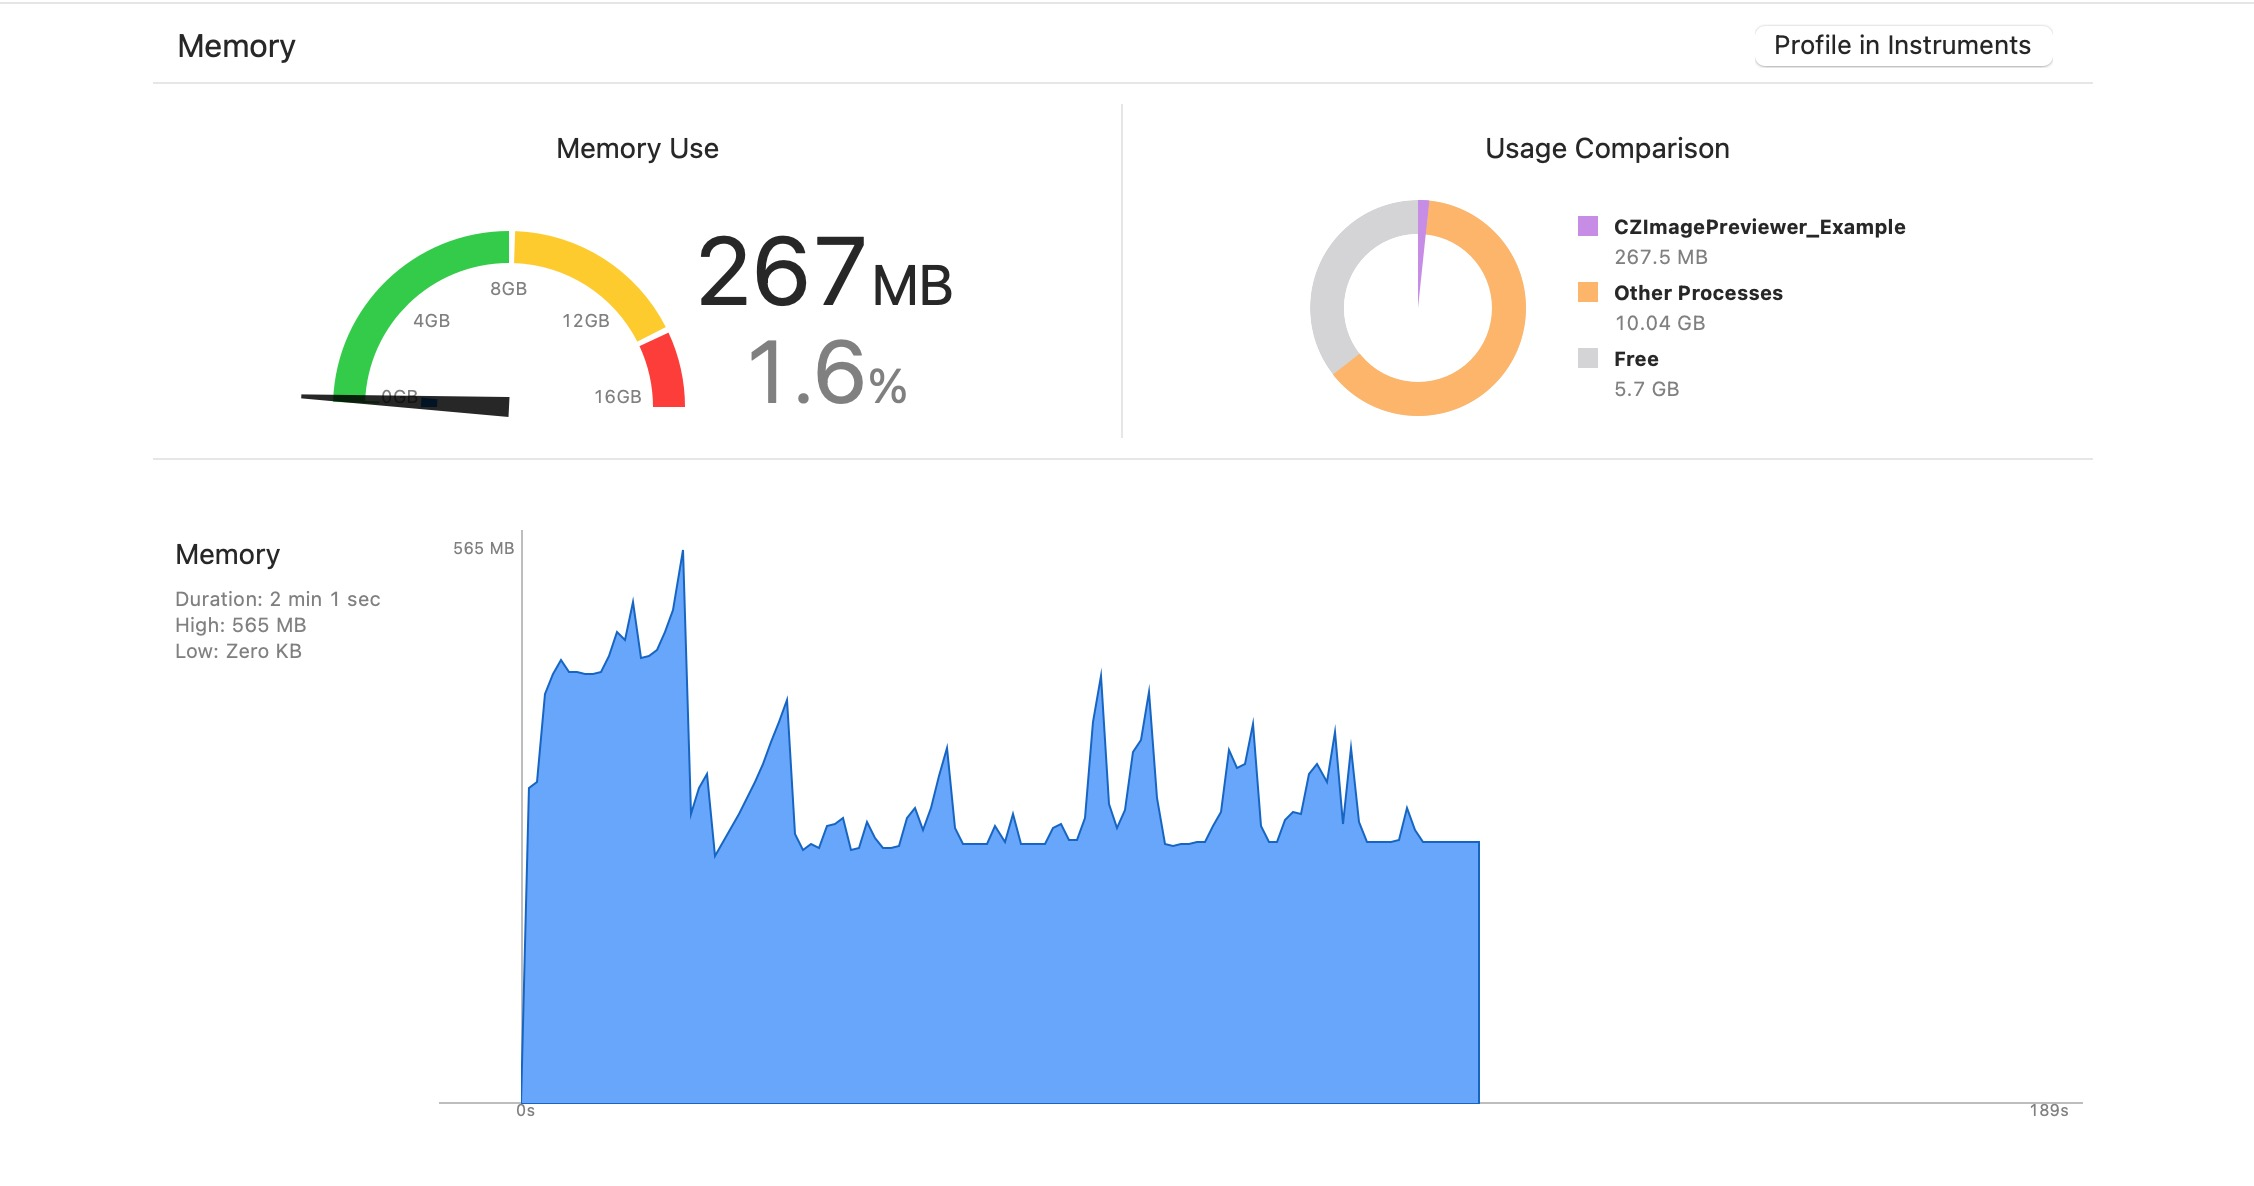
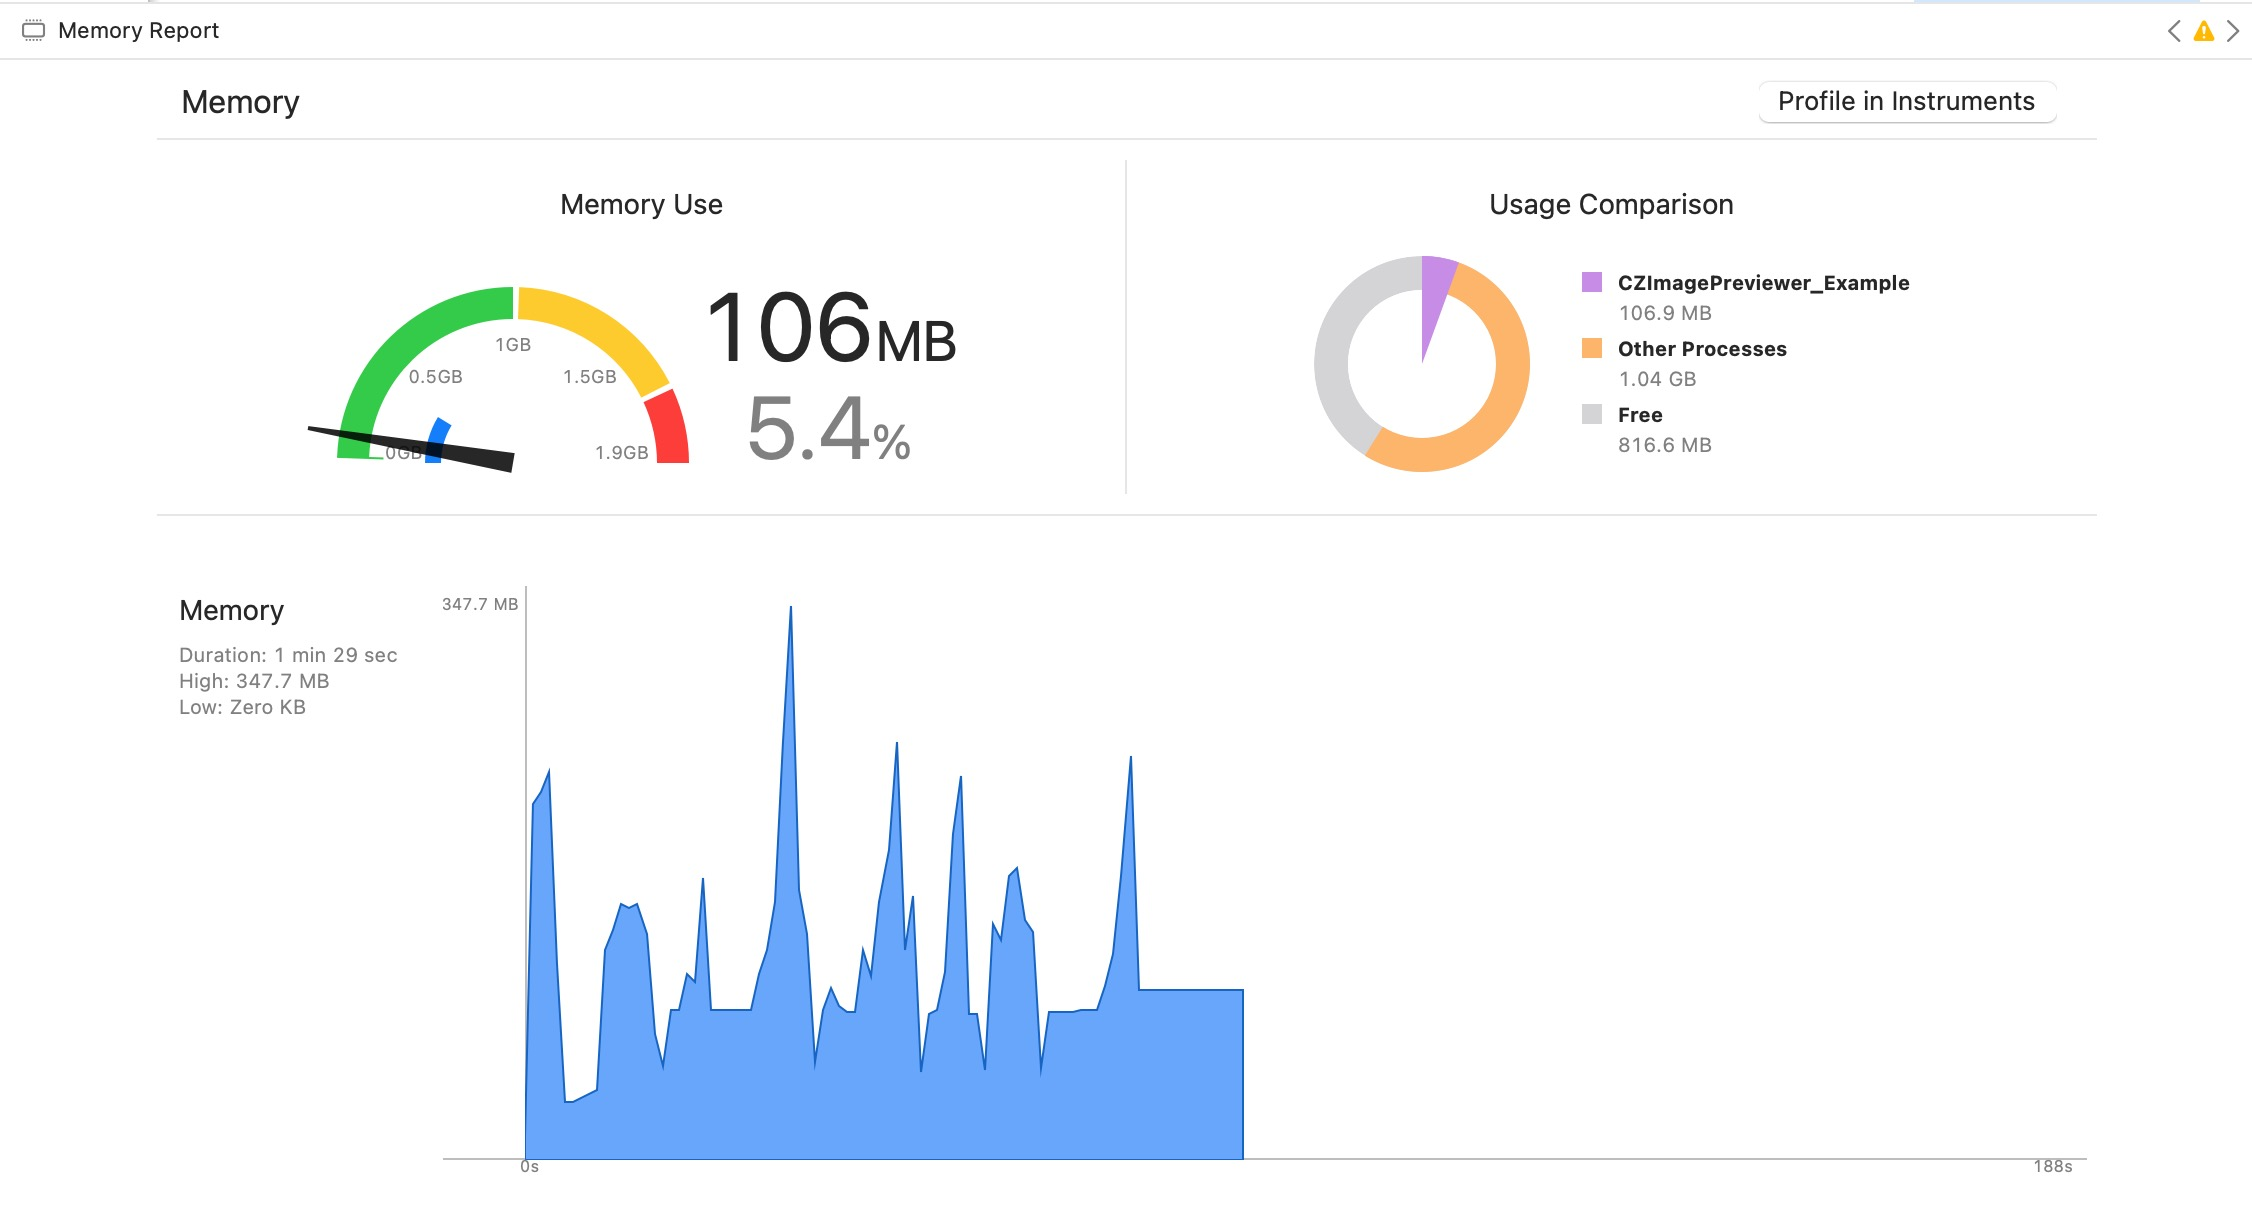
performance introduct

diff --git a/README.md b/README.md
@@ -37,7 +37,7 @@ To run the example project, clone the repo, and run `pod install` from the Examp
     - Custom console (the basic custom on Controller.view, front of the CollectionView)
 
 ## Performance
-**The Memory consumption during viewed all resources in demo**
+**Memory consumption during viewed all resources in demo which is running on a old device(iPhone6s, iOS13, 80% battery health)**
 ![Performance](introduction/performance.jpg)
 
 ## Screen Record
